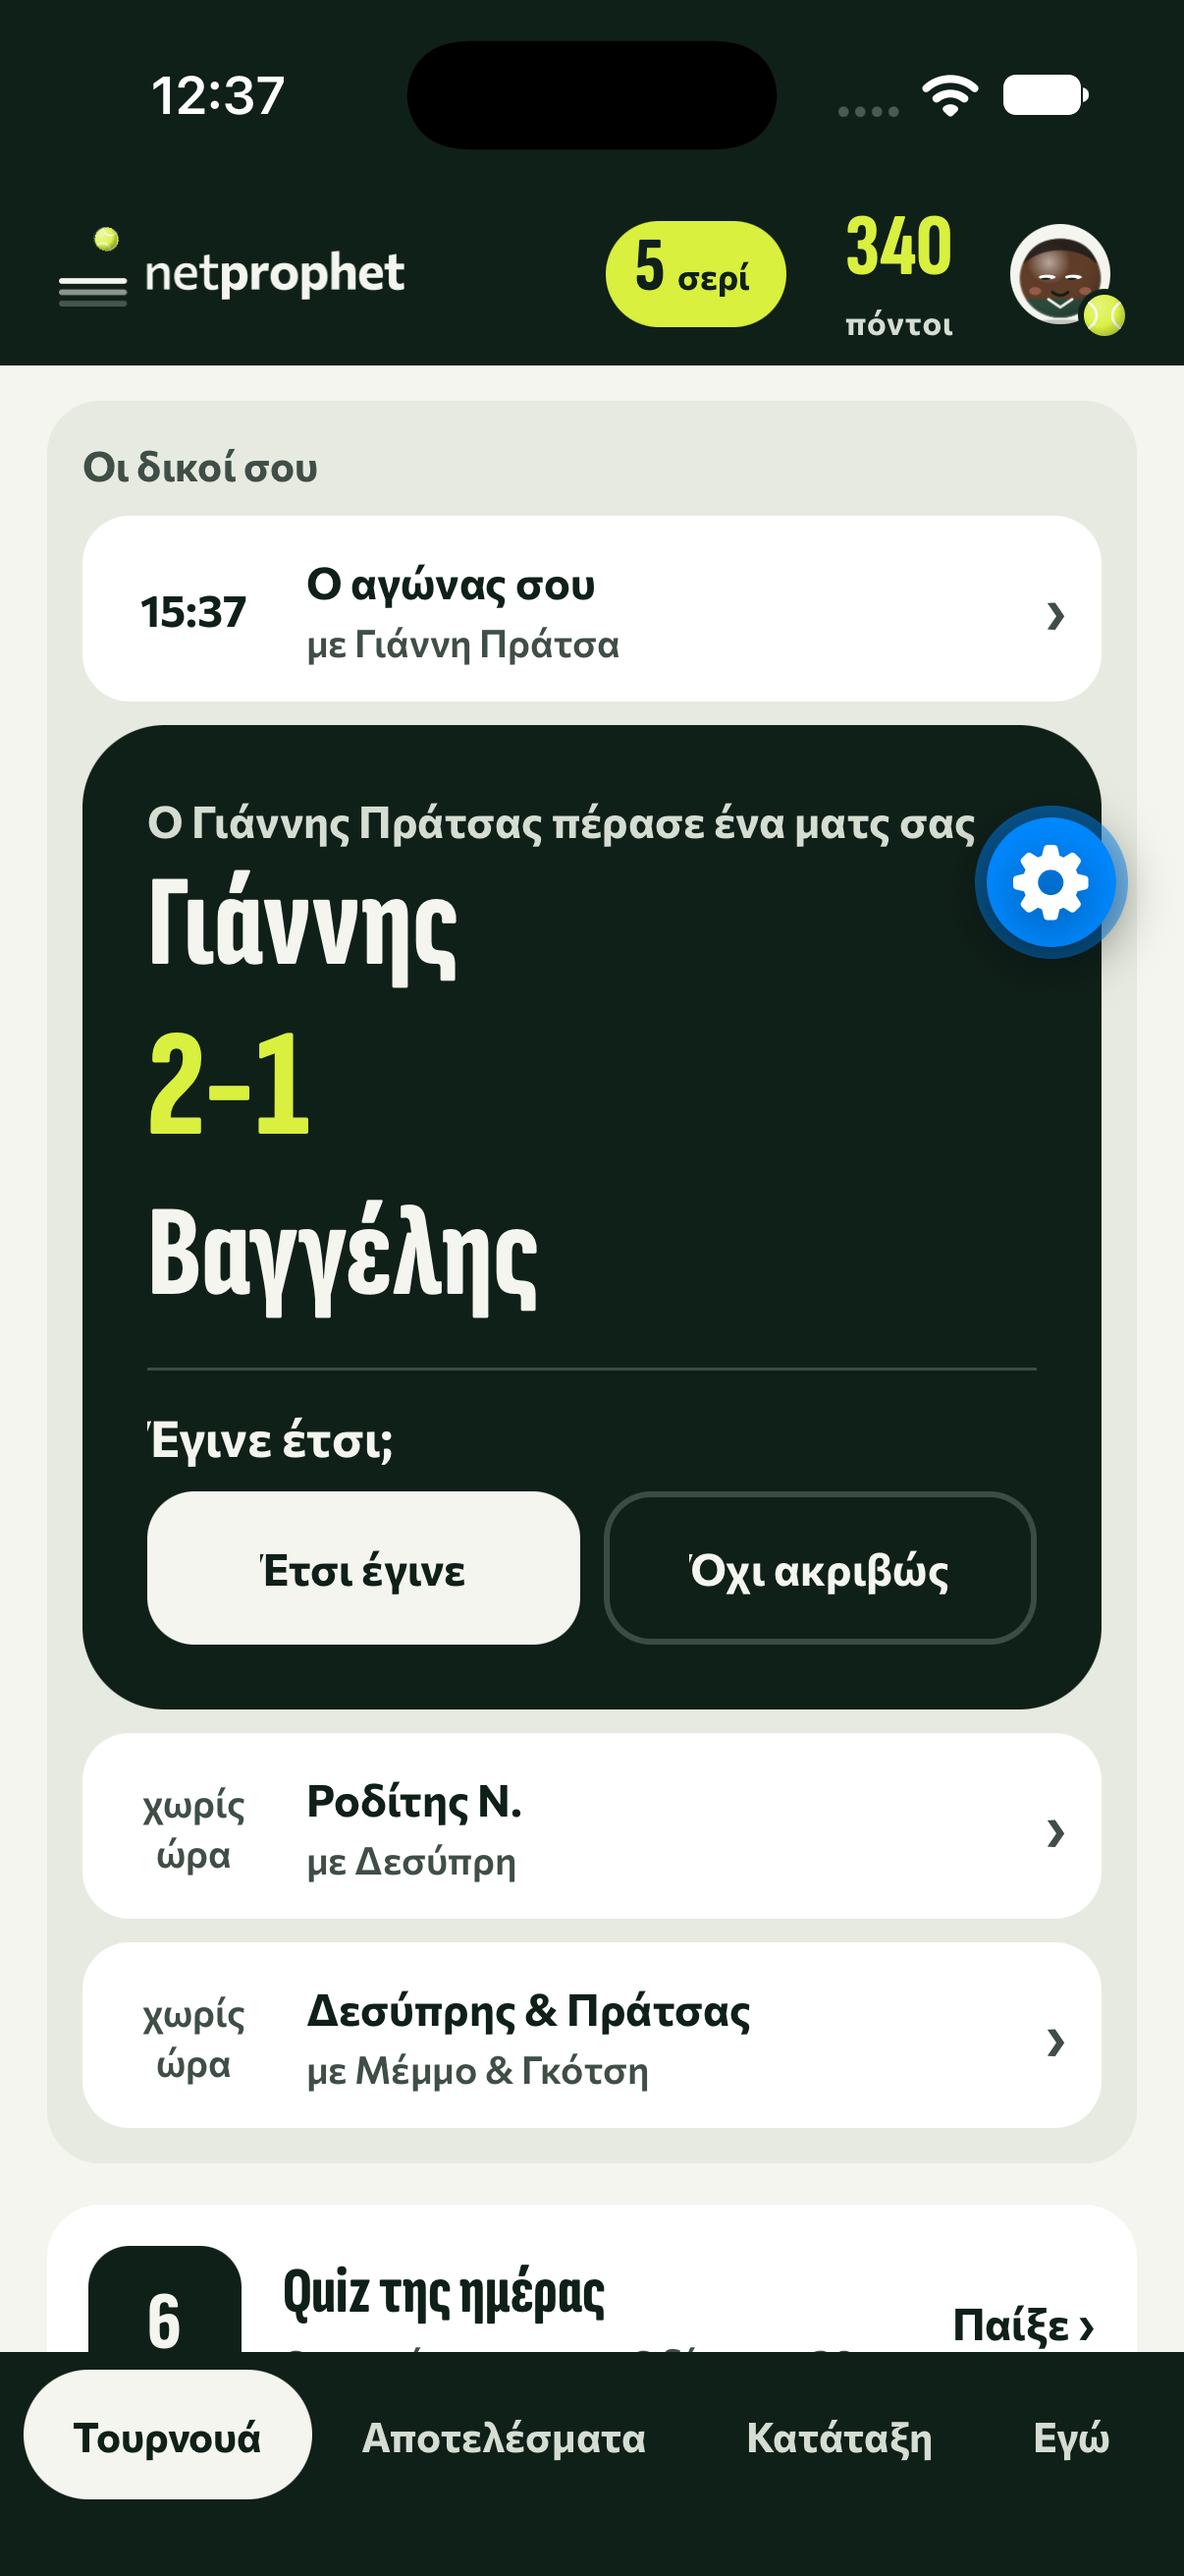
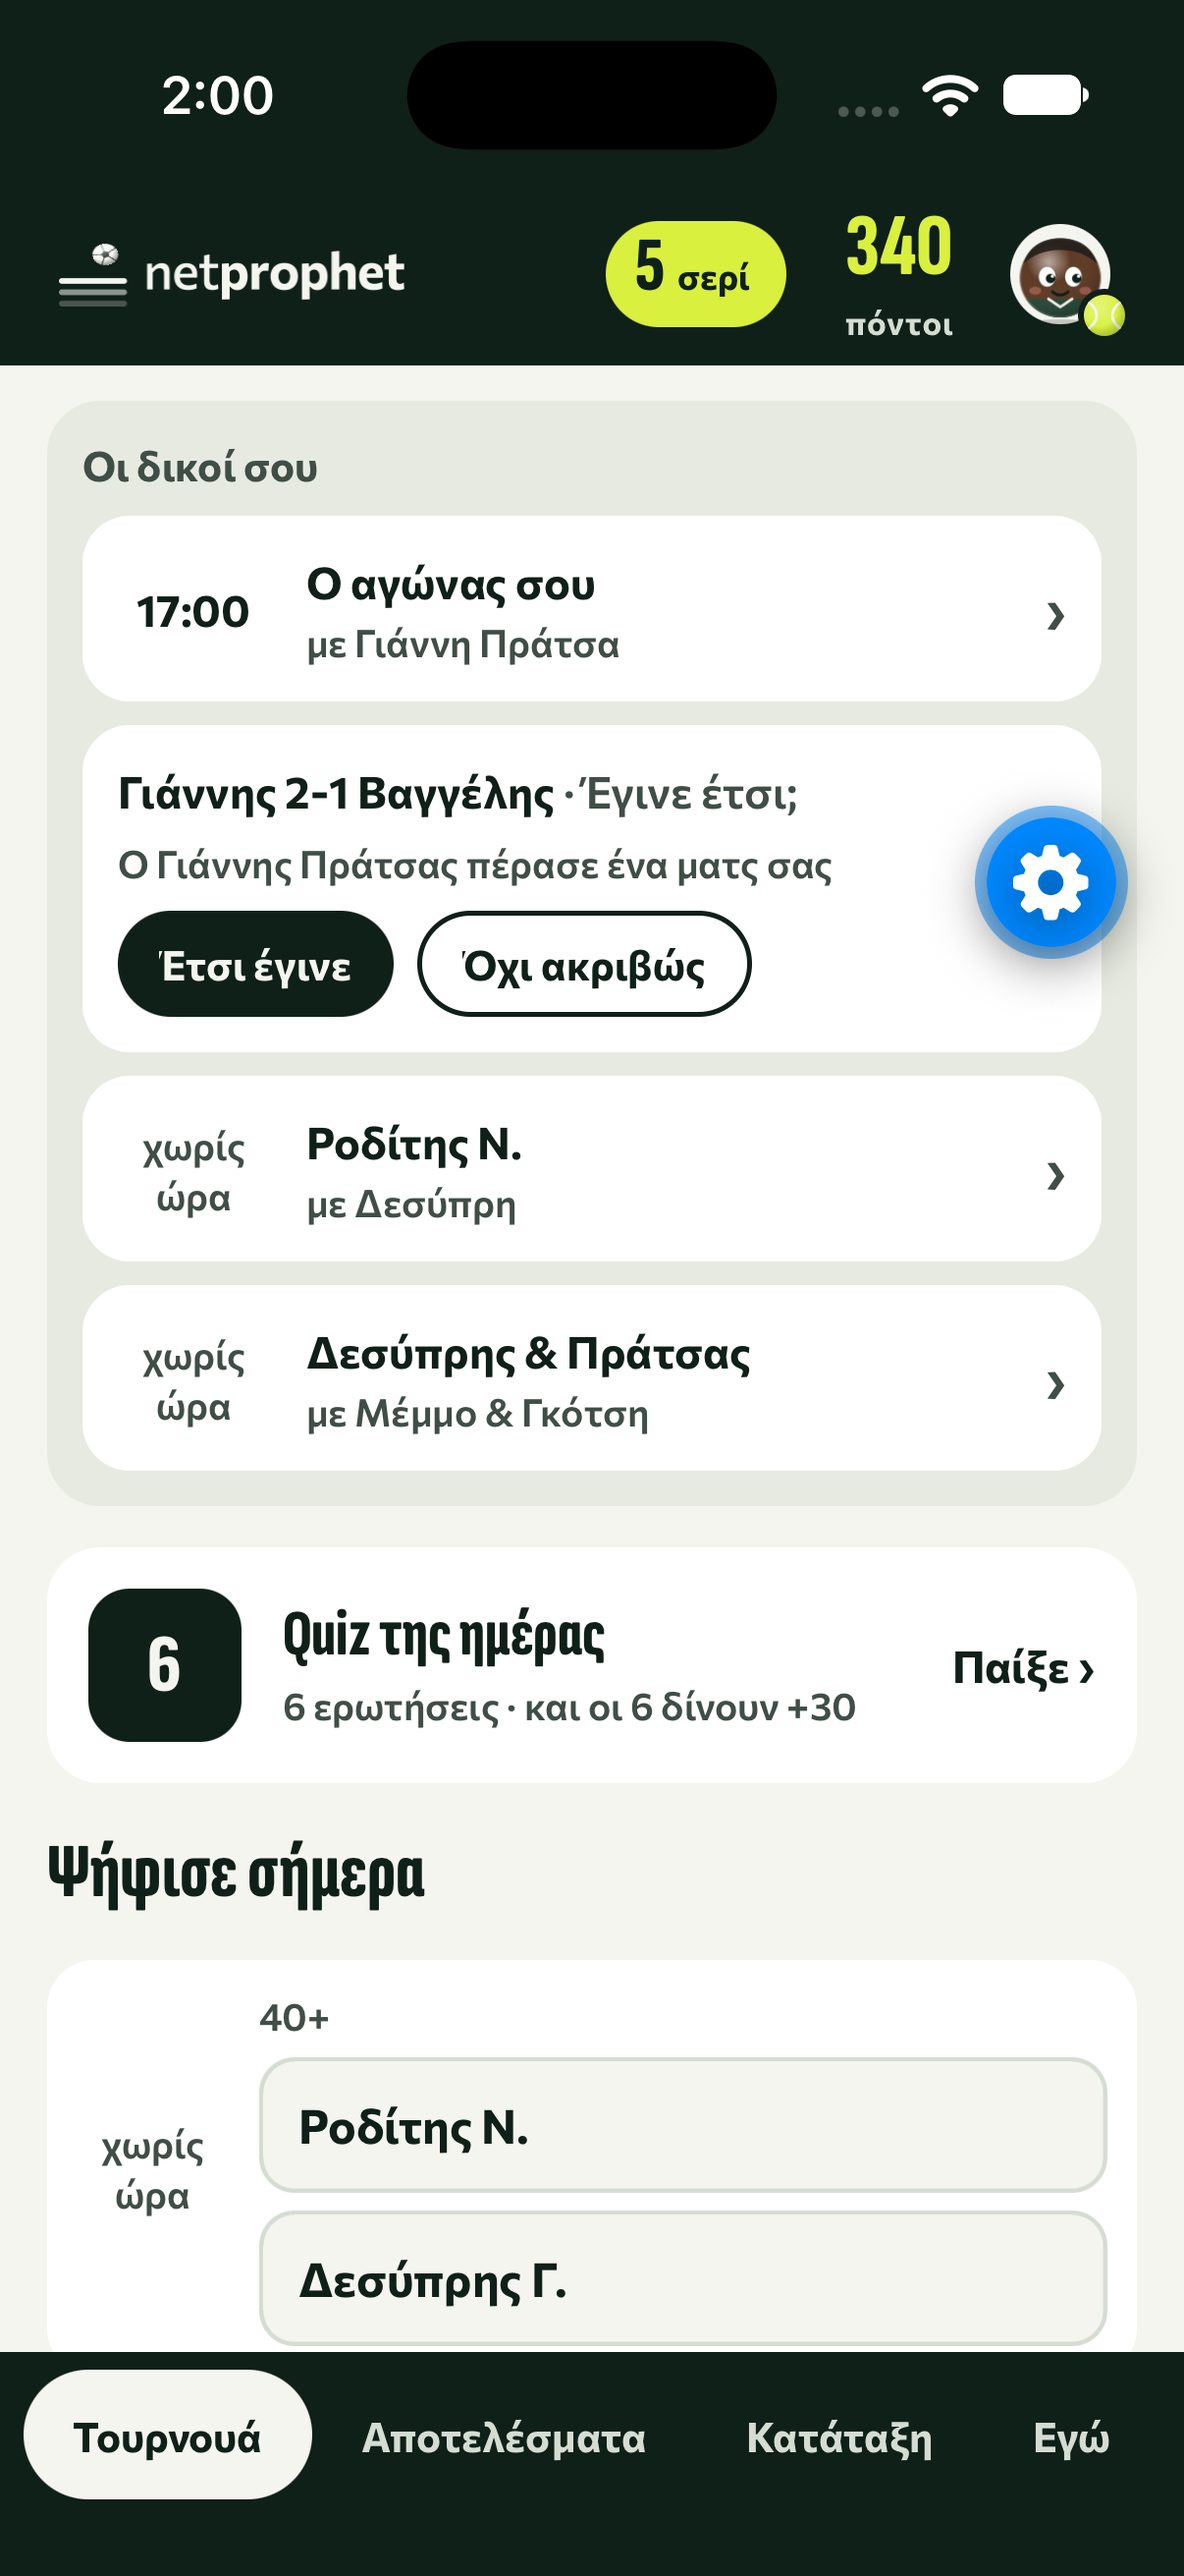
fix(app): match confirmation as a compact row in «Οι δικοί σου», no letter badge on today's tournaments

diff --git a/apps/app/src/components/ConfirmCard.tsx b/apps/app/src/components/ConfirmCard.tsx
@@ -99,3 +99,87 @@ const styles = StyleSheet.create({
   linkHit: { minHeight: 44, justifyContent: 'center', alignSelf: 'flex-start' },
   link: { fontFamily: fonts.bodyBold, fontSize: 14, color: colors.mist, textDecorationLine: 'underline' },
 });
+
+/**
+ * The same question as a compact row (mockup D, founder 22 Oct: the dark card swallowed «Οι δικοί σου»): a white row
+ * on sand, «Γιάννης 2-1 Βαγγέλης · Έγινε έτσι;» on one line, who logged it under it, and two small actions. «Όχι
+ * ακριβώς» opens the four scores and «Δεν έπαιξα εγώ» in place. Same answers as the card; nothing here is blue.
+ */
+export function ConfirmRow({ item, onAnswer }: { item: PendingConfirmation; onAnswer: (a: ConfirmationAnswer) => void }) {
+  const t = useCopy();
+  const c = t.confirm;
+  const [fixing, setFixing] = useState(false);
+  const firsts = (side: number) =>
+    (item.sides.find((s) => s.side === side)?.players ?? []).map((p) => p.first_name).join(' & ');
+  const winner = firsts(item.winner_side);
+  const loser = firsts(item.winner_side === 1 ? 2 : 1);
+  const logger = item.logged_by?.first_name ? who({ first_name: item.logged_by.first_name, surname: item.logged_by.surname }, true) : '';
+  const us = firsts(item.my_side);
+  const them = firsts(item.my_side === 1 ? 2 : 1);
+  const fixes: { label: string; fix: { winner: 'me' | 'them'; sets: '2-0' | '2-1' } }[] = [
+    { label: `2-0 ${us}`, fix: { winner: 'me', sets: '2-0' } },
+    { label: `2-1 ${us}`, fix: { winner: 'me', sets: '2-1' } },
+    { label: `2-1 ${them}`, fix: { winner: 'them', sets: '2-1' } },
+    { label: `2-0 ${them}`, fix: { winner: 'them', sets: '2-0' } },
+  ];
+  const line = [winner, item.score, loser].filter(Boolean).join(' ');
+  return (
+    <View style={rowStyles.row}>
+      <Text style={rowStyles.line} numberOfLines={2}>
+        {line}
+        <Text style={rowStyles.ask}>{` · ${fixing ? c.how : c.ask}`}</Text>
+      </Text>
+      {logger ? (
+        <Text style={rowStyles.small} numberOfLines={1}>
+          {fmt(item.format === 'singles' ? c.title : c.titleDoubles, { name: logger })}
+        </Text>
+      ) : null}
+      {!fixing ? (
+        <View style={rowStyles.actions}>
+          <Chip label={c.yes} solid onPress={() => onAnswer({ answer: 'yes' })} />
+          <Chip label={c.no} onPress={() => setFixing(true)} />
+        </View>
+      ) : (
+        <>
+          <View style={rowStyles.actionsWrap}>
+            {fixes.map((f) => (
+              <Chip key={f.label} label={f.label} onPress={() => onAnswer({ answer: 'fix', fix: f.fix })} />
+            ))}
+          </View>
+          <Pressable accessibilityRole="button" onPress={() => onAnswer({ answer: 'not_me' })} style={rowStyles.linkHit}>
+            <Text style={rowStyles.link}>{c.notMe}</Text>
+          </Pressable>
+        </>
+      )}
+    </View>
+  );
+}
+
+function Chip({ label, onPress, solid = false }: { label: string; onPress: () => void; solid?: boolean }) {
+  const press = usePress(0.95);
+  const pop = usePopIn(300);
+  return (
+    <Pressable accessibilityRole="button" onPress={onPress} onPressIn={press.onPressIn} onPressOut={press.onPressOut} hitSlop={4}>
+      <Animated.View style={[rowStyles.chip, solid ? rowStyles.chipSolid : rowStyles.chipOutline, press.style, pop]}>
+        <Text style={[rowStyles.chipText, { color: solid ? colors.paper : colors.ink }]} numberOfLines={1}>
+          {label}
+        </Text>
+      </Animated.View>
+    </Pressable>
+  );
+}
+
+const rowStyles = StyleSheet.create({
+  row: { padding: 12, borderRadius: 16, backgroundColor: colors.white, gap: 6 },
+  line: { fontFamily: fonts.bodyBold, fontSize: 15, lineHeight: 20, color: colors.ink },
+  ask: { fontFamily: fonts.bodySemi, color: colors.inkSoft },
+  small: { fontFamily: fonts.bodySemi, fontSize: 13, lineHeight: 17, color: colors.inkSoft },
+  actions: { flexDirection: 'row', gap: 8, marginTop: 2 },
+  actionsWrap: { flexDirection: 'row', flexWrap: 'wrap', gap: 8, marginTop: 2 },
+  chip: { minHeight: 36, paddingHorizontal: 14, borderRadius: 999, alignItems: 'center', justifyContent: 'center' },
+  chipSolid: { backgroundColor: colors.ink },
+  chipOutline: { borderWidth: 1.5, borderColor: colors.ink },
+  chipText: { fontFamily: fonts.bodyBold, fontSize: 14 },
+  linkHit: { minHeight: 36, justifyContent: 'center', alignSelf: 'flex-start' },
+  link: { fontFamily: fonts.bodyBold, fontSize: 13, color: colors.inkSoft, textDecorationLine: 'underline' },
+});

diff --git a/apps/app/src/components/HomeCards.tsx b/apps/app/src/components/HomeCards.tsx
@@ -228,7 +228,8 @@ export function TournamentCard({ item }: { item: HomeTournament }) {
       <View style={styles.tcard}>
         <View style={styles.tTop}>
           <View style={styles.tName}>
-            <Logo path={item.logo} name={item.name} size={24} />
+            {/* a real logo only: without one the Logo's letter («O» for Open) read as a stray «0» badge here */}
+            {item.logo ? <Logo path={item.logo} name={item.name} size={24} /> : null}
             <Text style={styles.tNameText}>{item.name}</Text>
           </View>
           {tag ? (
@@ -330,6 +331,6 @@ const styles = StyleSheet.create({
   tLiveText: { flexShrink: 1, fontFamily: fonts.bodySemi, fontSize: 14, lineHeight: 19, color: colors.ink },
   quietHit: { alignSelf: 'flex-start', minHeight: 44, justifyContent: 'center', paddingHorizontal: 4 },
   quiet: { fontFamily: fonts.bodyBold, fontSize: 15, color: colors.ink },
-  add: { minHeight: 40, paddingHorizontal: 16, borderRadius: 999, backgroundColor: colors.ink, alignItems: 'center', justifyContent: 'center' },
+  add: { flexShrink: 0, minHeight: 40, paddingHorizontal: 16, borderRadius: 999, backgroundColor: colors.ink, alignItems: 'center', justifyContent: 'center' },
   addText: { fontFamily: fonts.bodyBold, fontSize: 15, color: colors.paper },
 });

diff --git a/apps/app/app/(tabs)/index.tsx b/apps/app/app/(tabs)/index.tsx
@@ -4,7 +4,7 @@ import { AppState, RefreshControl, ScrollView, StyleSheet, Text, View } from 're
 import { BallerNote } from '../../src/components/BallerNote';
 import { Celebration } from '../../src/components/Celebration';
 import { QUEST_BAR_MS } from '../../src/components/QuestBar';
-import { ConfirmCard } from '../../src/components/ConfirmCard';
+import { ConfirmRow } from '../../src/components/ConfirmCard';
 import { ResultsDeck } from '../../src/components/ResultsDeck';
 import { SponsoredCard } from '../../src/components/SponsoredCard';
 import { TOAST_MS, Toast } from '../../src/components/Toast';
@@ -404,7 +404,7 @@ export default function HomeScreen() {
             <YoursBlock>
               {mine ? <MyMatchRow match={mine} onPress={openMine} /> : null}
               {confirmations.items.map((item) => (
-                <ConfirmCard
+                <ConfirmRow
                   key={item.match_id}
                   item={item}
                   onAnswer={(a) => {
